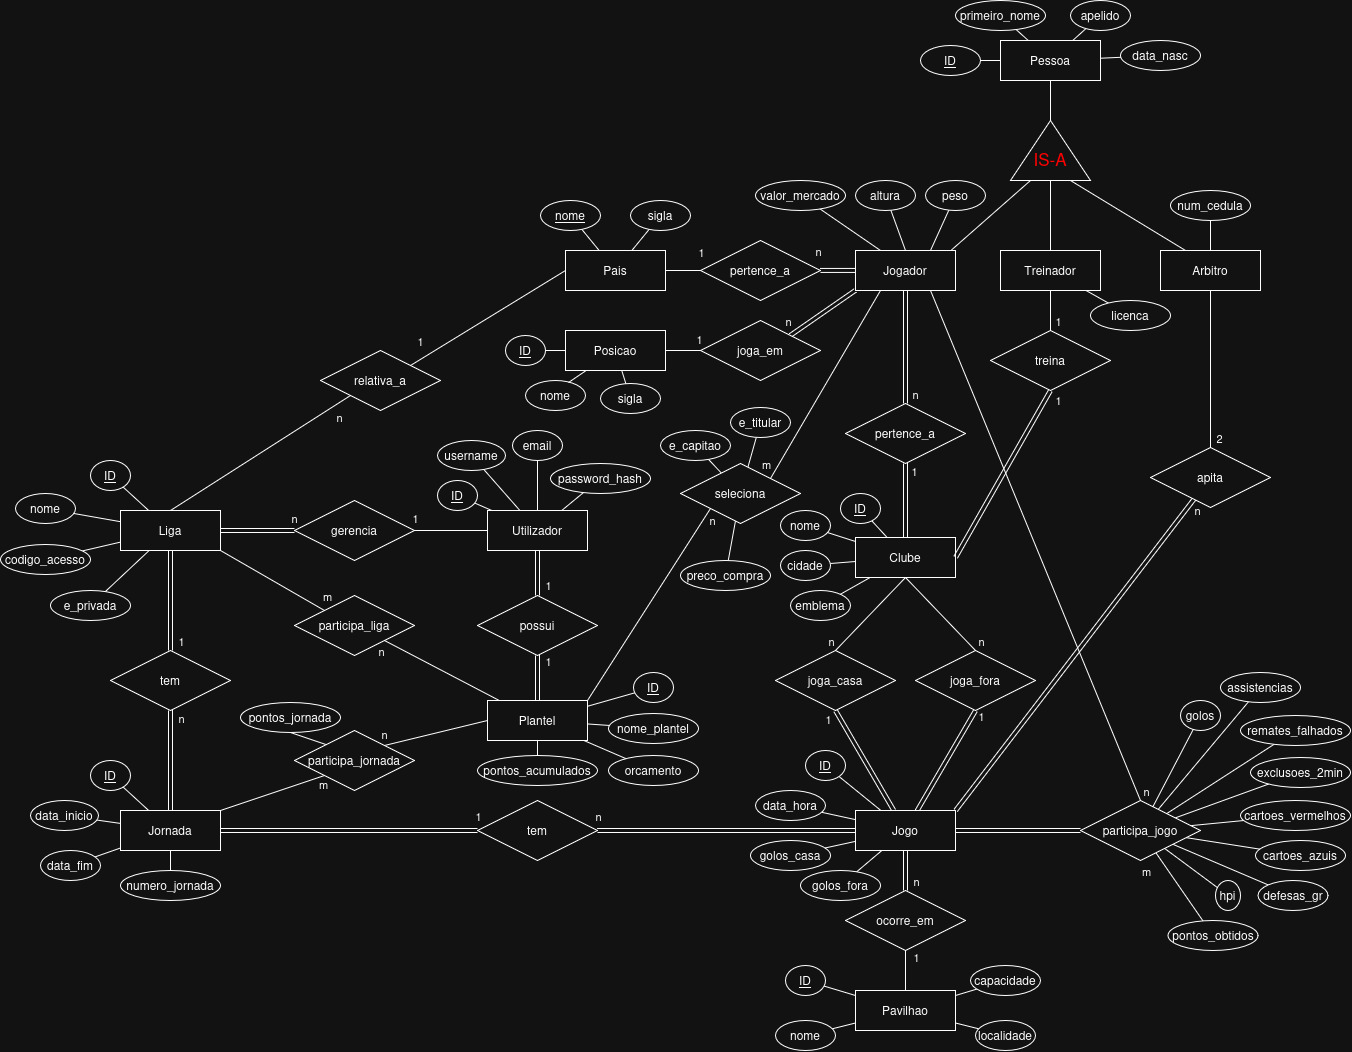
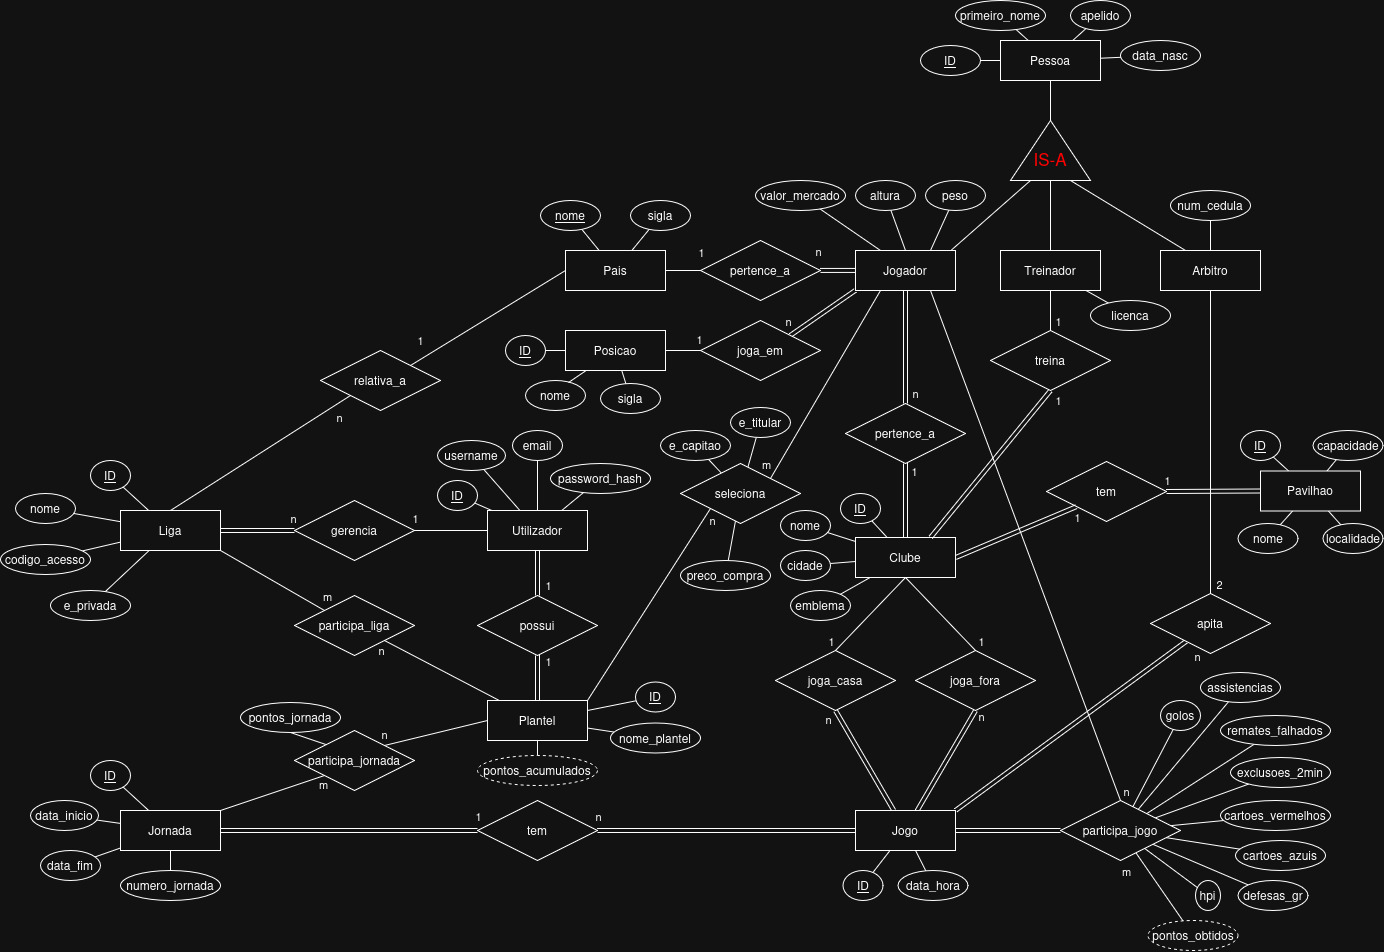
Nomralização

diff --git a/APFE_FINAL_132982_133155/apfe_final_submit.md b/APFE_FINAL_132982_133155/apfe_final_submit.md
@@ -18,7 +18,7 @@ Tivemos ainda atenção à relação entre clubes e jogos, pois num jogo é obri
 Ainda temos algumas entidades para paises, posições e pavilhões, que apesar de serem mais secundárias, foram feitas com a ideia de complementar algumas ações possíveis que um utilizador poderá querer fazer relativamente à sua liga ou plantel.
 
 Para as entidades virtuais, pensamos da perspetiva do utilizador, pois ele vai controlar tudo. Cada utilizador registado pode ter o seu próprio plantel, e em cada plantel precisamos saber o preço de compra a partir do preço atual do jogador, quem é titular e não titular (suplente), e quem é capitao. Isto irá servir para calcular os pontos nas jornadas.
-O mesmo plantel pode competir em várias ligas ao mesmo tempo, quer sejam públicas ou privadas criadas entre amigos. Além disso, em vez de guardarmos apenas o total acumulado de pontos que vai subindo ao longo da liga, decidimos guardar os pontos por jornada. Desta forma, o utilizador consegue acompanhar o seu histórico, e usamos as jornadas para calcular os pontos na liga. 
+O mesmo plantel pode competir em várias ligas ao mesmo tempo, quer sejam públicas ou privadas criadas entre amigos. Além disso, em vez de guardarmos o total acumulado de pontos (que é um atributo derivado), decidimos guardar apenas os pontos por jornada. Desta forma, o utilizador consegue acompanhar o seu histórico e calculamos dinamicamente os pontos acumulados na liga.
 Uma liga pode também ser relativa a uma país, mas já é opcional.
 
 ## DER - Diagrama Entidade Relacionamento/Entity Relationship Diagram
@@ -36,3 +36,24 @@ Uma liga pode também ser relativa a uma país, mas já é opcional.
 ## SQL DDL - Data Definition Language
 
 [SQL DDL File](sql/01_ddl.sql "SQLFileQuestion")
+
+## Normalização / Normalization
+
+Após a definição do esquema inicial (`DDL` e `DML`), procedeu-se à análise e normalização da base de dados (implementada no script `normalizacao.sql`) com o objetivo de atingir a Terceira Forma Normal (3FN), eliminar redundâncias e reforçar a integridade dos dados.
+
+### 1. Remoção de Atributos Derivados e Redundantes
+Para evitar anomalias de atualização e inconsistências entre valores armazenados e valores calculados, foram eliminados os atributos derivados que podem ser obtidos dinamicamente através de consultas (`SELECT` / *Views*):
+
+* **`Plantel.orcamento`:** Removido por ser calculável a partir do orçamento inicial definido para a plataforma subtraído da soma dos `preco_compra` dos jogadores associados ao plantel (`Pertence`).
+* **`Plantel.pontos_acumulados`:** Removido por corresponder ao somatório dos `pontos_jornada` registados para cada plantel na tabela `Participa_Jornada`.
+* **`Jogo.golos_casa` e `Jogo.golos_fora`:** Removidos por poderem ser apurados diretamente através da soma dos golos marcados pelos jogadores de cada clube no respetivo jogo (`Participa_Jogo`).
+* **`Participa_Jogo.pontos_obtidos`:** Removido por representar uma pontuação derivada da aplicação das regras de pontuação da *Fantasy* às estatísticas individuais registadas no jogo (golos, assistências, defesas, sanções, etc.).
+
+### 2. Reestruturação de Dependências Funcionais
+* **Transferência de `id_pavilhao` (`Jogo` $\rightarrow$ `Clube`):** No modelo inicial, o pavilhão estava associado diretamente a `Jogo`. Contudo, no contexto da competição, o pavilhão onde se realiza o encontro é determinado pelo clube visitado (`id_clube_casa`), gerando uma dependência transitiva ($Jogo \rightarrow Clube_{casa} \rightarrow Pavilhao$). Ao mover `id_pavilhao` para `Clube` (numa relação 1:1), elimina-se esta dependência transitiva e garante-se a 3FN.
+* **Desacoplamento entre `Jornada` e `Liga`:** Uma vez que as jornadas correspondem ao calendário real dos jogos de andebol e que um mesmo plantel pode competir simultaneamente em várias ligas virtuais (públicas ou privadas), removeu-se a chave estrangeira `id_liga` de `Jornada`. A ligação entre jornadas, plantéis e ligas passa a ser assegurada de forma consistente através de `Participa_Jornada` e `Compete`.
+
+### 3. Restrições de Integridade e Atualização de Dados
+* **Chaves Candidatas (`UNIQUE`):** Adicionadas restrições de unicidade sobre atributos naturais (como nomes de entidades e identificadores únicos) para impedir registos duplicados.
+* **Integridade de Domínio (`CHECK`):** Introduzidas validações ao nível do esquema para garantir a coerência dos dados (valores não negativos para preços, capacidades e estatísticas de jogo, distinção obrigatória entre clube visitado e visitante num jogo, e validação das regras de titularidade/capitão).
+* **Recálculo de Pontuações:** Atualização dos valores de `Participa_Jornada.pontos_jornada` para refletir de forma exata o desempenho estatístico dos atletas titulares e do capitão em cada jornada.
